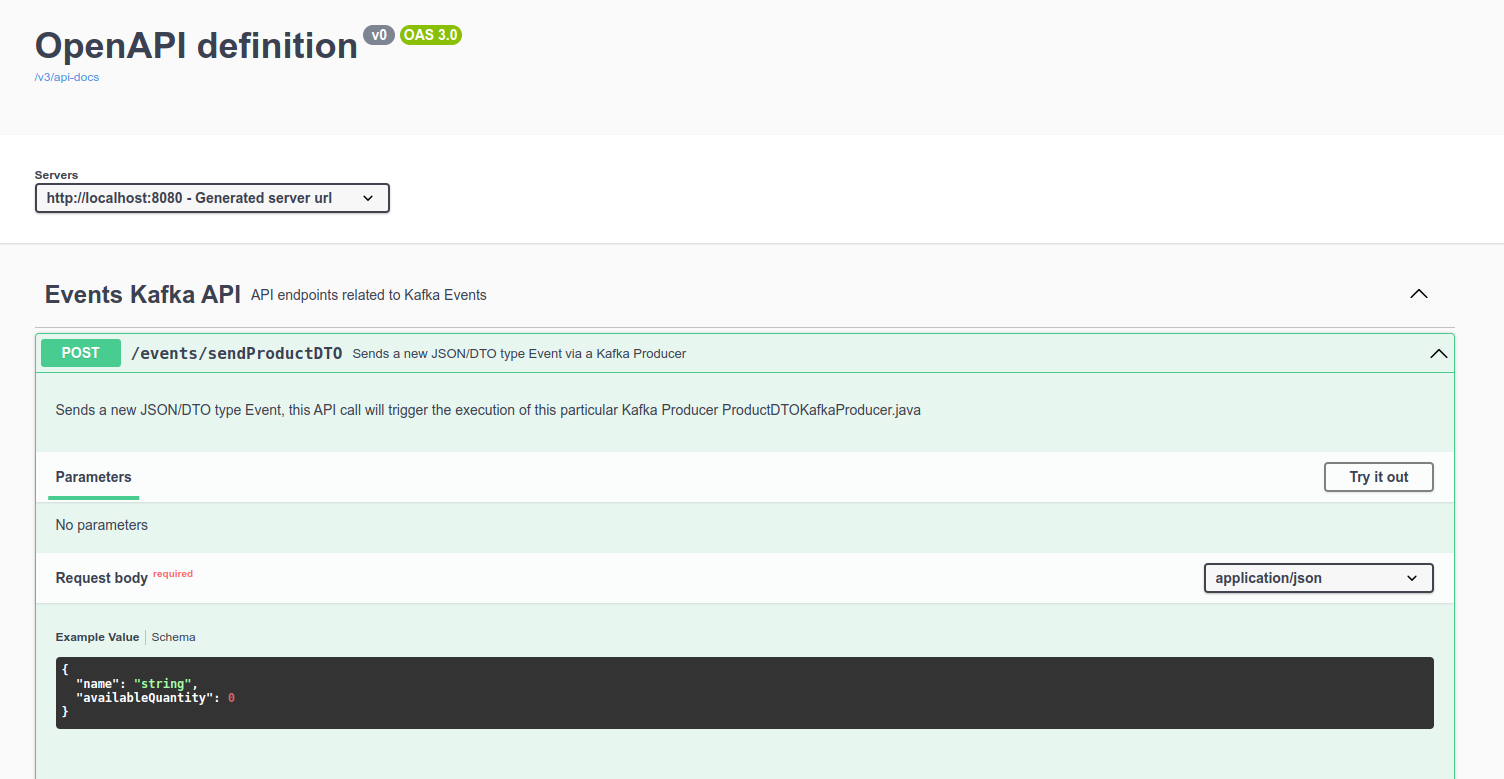
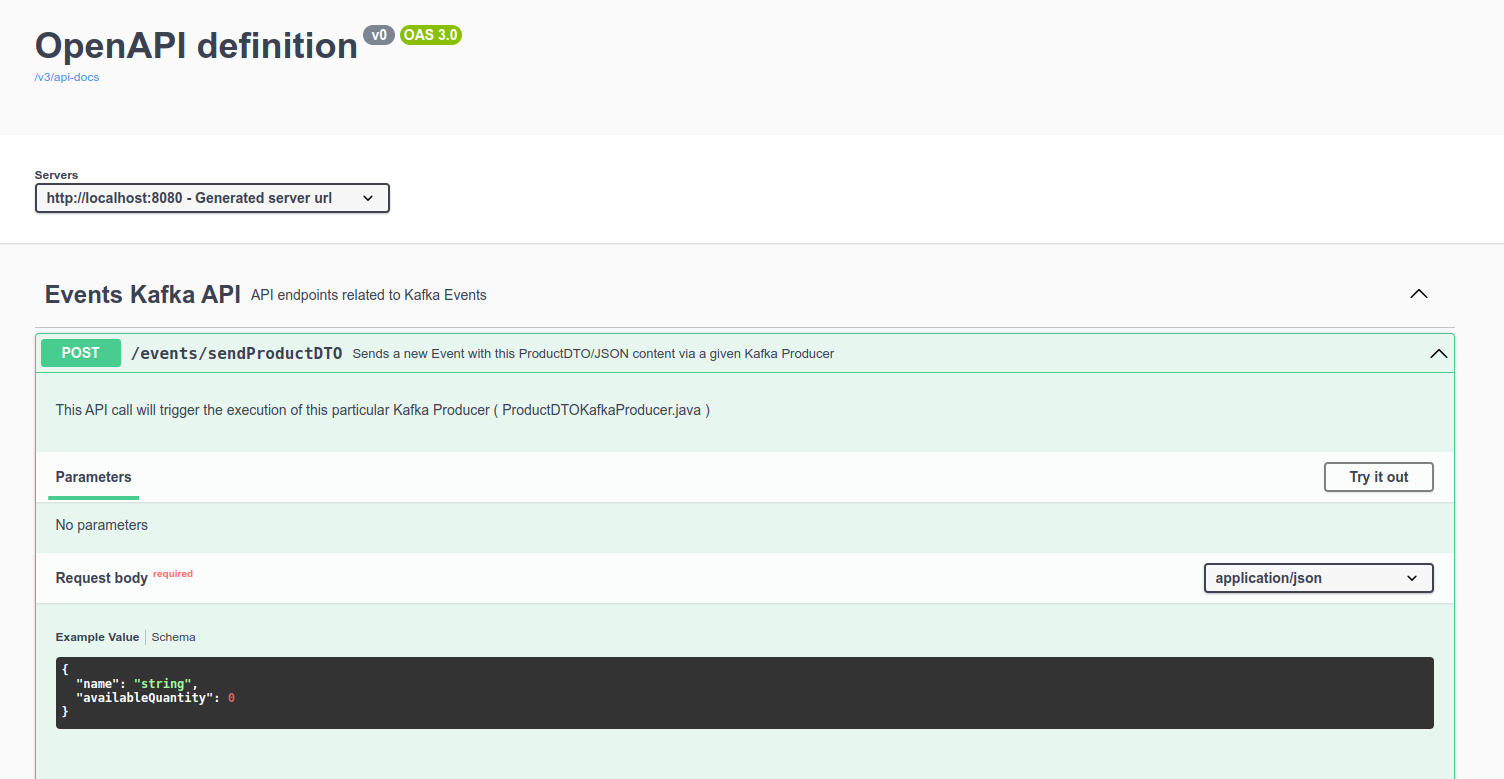
updates swagger

Changed region(s): [[0.0312, 0.4929, 0.625, 0.5546], [0.2812, 0.4313, 0.5625, 0.4621]]

diff --git a/src/main/java/com/rbalazs/eventsapi/controller/swagger/EventsControllerSwagger.java b/src/main/java/com/rbalazs/eventsapi/controller/swagger/EventsControllerSwagger.java
@@ -14,7 +14,7 @@ import org.springframework.web.bind.annotation.*;
 @Tag(name = "Events Kafka API", description = "API endpoints related to Kafka Events")
 public interface EventsControllerSwagger {
 
-    @Operation(summary = "Sends a new JSON/DTO Event via a Kafka Producer",
-            description = "Sends a new JSON/DTO Event, this API call will trigger the execution of this particular Kafka Producer ProductDTOKafkaProducer.java")
+    @Operation(summary = "Sends a new Event with this ProductDTO/JSON content via a given Kafka Producer",
+            description = "This API call will trigger the execution of this particular Kafka Producer ( ProductDTOKafkaProducer.java )")
     public void sendProductDTO(@RequestBody ProductDTO productDTO);
 }

diff --git a/README.md b/README.md
@@ -1,8 +1,8 @@
 ## Spring Boot Kafka Events
-This repository contains an Spring Boot Events Application which shows an event Producer/Consumer example implemented via Kafka.
-The Producer/Consumer communicates via a single Topic 'product-dto-topic'.
-The exchanged Event is JSON / DTO type.
-The REST API via a POST call triggers the execution of the Producer.
+This repository contains an Spring Boot Events Application which shows an event Producer/Consumer example implemented via Kafka.<br/>
+The Producer/Consumer communicates via a single Topic 'product-dto-topic'.<br/>
+The exchanged Event is JSON / DTO type.<br/>
+The REST API via a POST call triggers the execution of the Kafka Producer.
 
 ### 🔧 Technology Stack
 
@@ -41,7 +41,7 @@ mvn spring-boot:run;
 
 ### 💡 API Examples
 
-#### Sends a new JSON/DTO Event, this API call will trigger the execution of this particular Kafka Producer ProductDTOKafkaProducer.java =>
+#### 1. Sends a new Event with this ProductDTO/JSON content via this particular Kafka Producer ( ProductDTOKafkaProducer.java ) =>
 ```
 curl -X POST http://localhost:8080/events/sendProductDTO  \
      -H 'accept: application/json'  \
@@ -52,8 +52,7 @@ curl -X POST http://localhost:8080/events/sendProductDTO  \
 }';
 ```
 
-#### After the execution of the previous POST API call, the IDE console should display a log trace from the Kafka Consumer
-#### ( ProductDTOKafkaConsumer.java ) similar to this one =>
+###### After the execution of the previous POST API call, the IDE console should display a log trace from the Kafka Consumer ( ProductDTOKafkaConsumer.java ) similar to this one =>
 ```
 c.r.e.consumer.ProductDTOKafkaConsumer : received a JSON/ProductDTO event with this content => name:Tablet | available_quantity: 100
 ```
